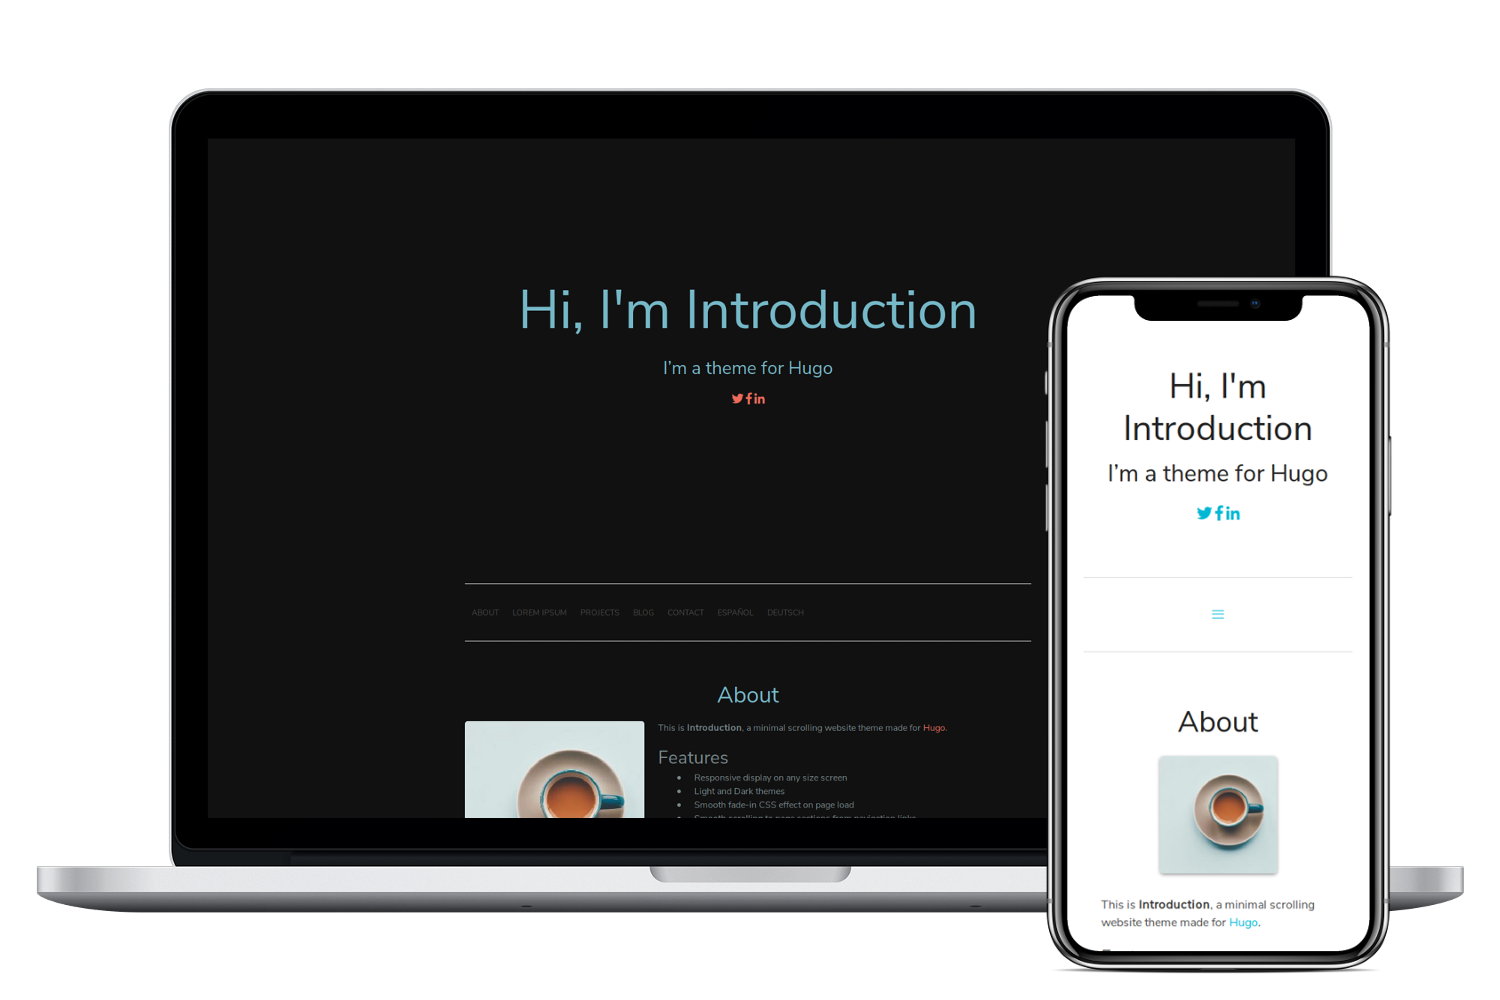
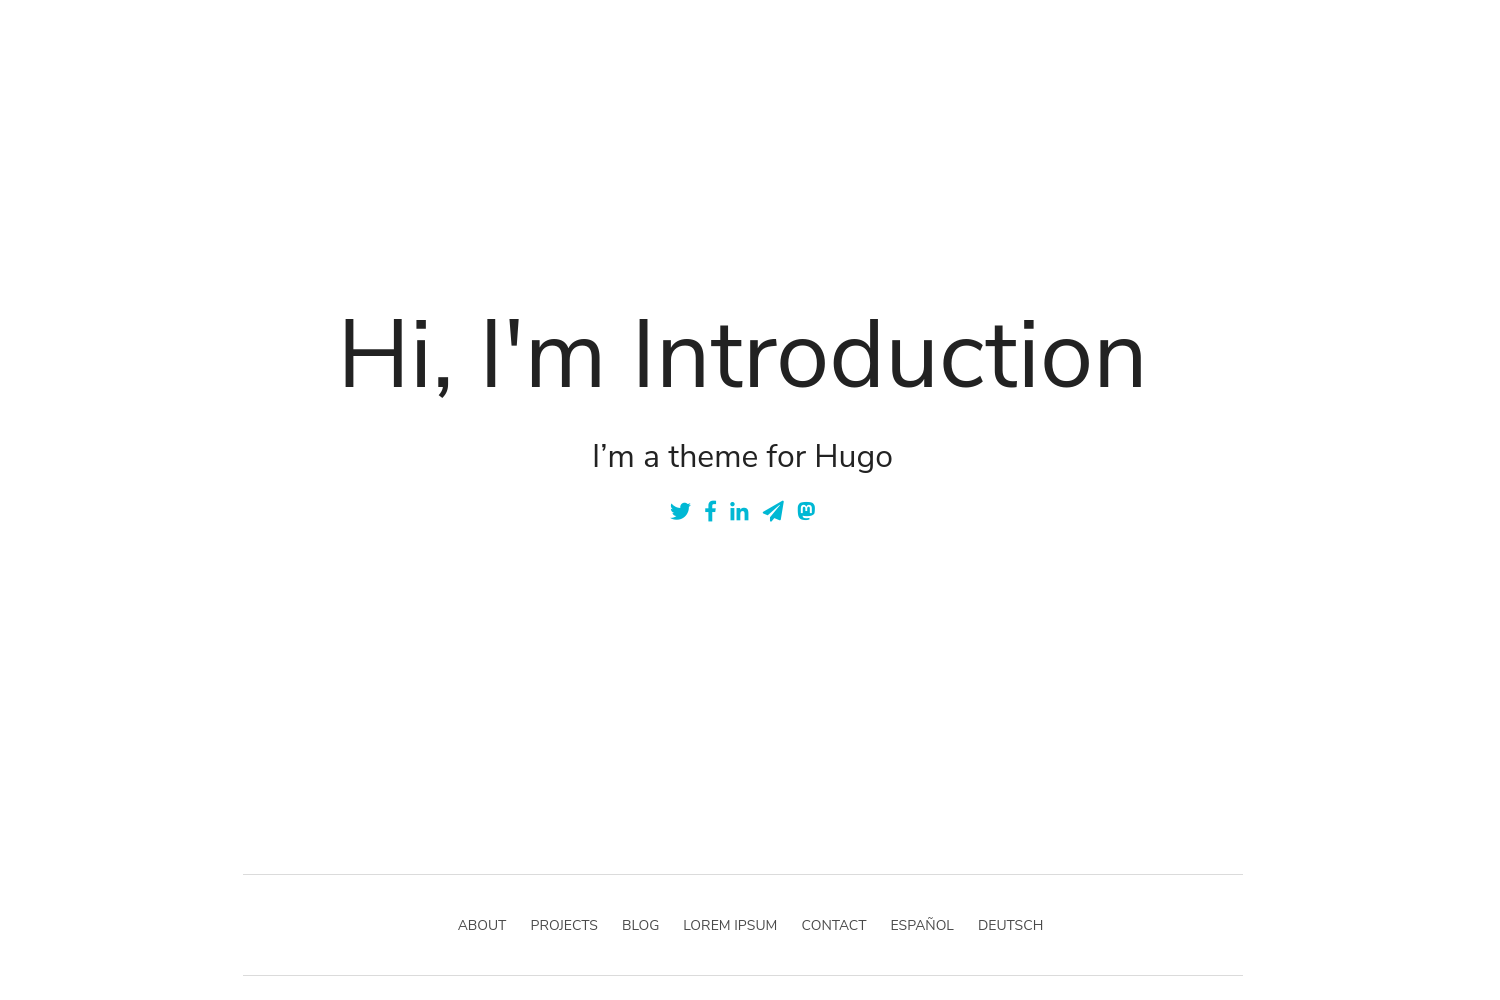
Update introduction theme

diff --git a/themes/introduction/layouts/blog/single.html b/themes/introduction/layouts/blog/single.html
@@ -1,61 +1,61 @@
 {{ define "title" }}
 {{ with .Site.GetPage "/blog" }}
-    <h1 class="bold-title is-1">{{ .Title }}</h1>
+<h1 class="bold-title is-1">{{ .Title | markdownify }}</h1>
 {{ end }}
 {{ end }}
 
 {{ define "main" }}
-    <div class="container">
-        <h2 class="title is-1 top-pad strong-post-title">
-            <a href="{{ .Permalink }}">{{ .Title }}</a>
-        </h2>
-        <div class="post-data">
-            {{ if .Params.date }}{{ .Date.Format (.Site.Params.dateFormat | default "Jan 02, 2006") }} |{{ end }}
-            {{ i18n "blog_readingTime" .ReadingTime }}
-        </div>
-        {{ if or .Site.Params.share.twitter .Site.Params.share.facebook .Site.Params.share.pinterest .Site.Params.share.googlePlus }}
-        <div class="blog-share">
-            {{ i18n "blog_shareThis" . }}:
-            {{ if .Site.Params.share.twitter }}
-            <a class="twitter-share-button" href="https://twitter.com/intent/tweet?text={{ .Title }}%20{{ .Permalink }}" onclick="window.open(this.href, 'twitter-share', 'width=550,height=235');return false;">
-                <i class="fab fa-twitter"></i>
-                <span class="hidden">Twitter</span>
-            </a>
-            {{ end }}
-            {{ if .Site.Params.share.facebook }}
-            <a class="icon-facebook" href="https://www.facebook.com/sharer/sharer.php?u={{ .Permalink }}"  onclick="window.open(this.href, 'facebook-share','width=580,height=296');return false;">
-                <i class="fab fa-facebook-f"></i>
-                <span class="hidden">Facebook</span>
-            </a>
-            {{ end }}
-            {{ if .Site.Params.share.pinterest }}
-            <a class="icon-pinterest" href="http://pinterest.com/pin/create/button/?url={{ .Permalink }}{{ if .Params.pinterestMedia }}&amp;media={{ .Site.BaseURL }}{{ .Params.pinterestMedia }}{{ end }}&amp;description={{ .Title | safeHTML}}" onclick="window.open(this.href, 'pinterest-share','width=580,height=296');return false;">
-                <i class="fab fa-pinterest-p"></i>
-                <span class="hidden">Pinterest</span>
-            </a>
-            {{ end }}
-            {{ if .Site.Params.share.googlePlus }}
-            <a class="icon-google-plus" href="https://plus.google.com/share?url={{ .Permalink }}" onclick="window.open(this.href, 'google-plus-share', 'width=490,height=530');return false;">
-                <i class="fab fa-google-plus-g"></i>
-                <span class="hidden">Google+</span>
-            </a>
-            {{ end }}
-        </div>
+<div class="container">
+    <h2 class="title is-1 top-pad strong-post-title">
+        <a href="{{ .Permalink }}">{{ .Title | markdownify }}</a>
+    </h2>
+    <div class="post-data">
+        {{ if .Params.date }}{{ .Date.Format (.Site.Params.dateFormat | default "Jan 02, 2006") }} |{{ end }}
+        {{ i18n "blog_readingTime" .ReadingTime }}
+    </div>
+    {{ if or .Site.Params.share.twitter .Site.Params.share.facebook .Site.Params.share.pinterest .Site.Params.share.googlePlus }}
+    <div class="blog-share">
+        {{ i18n "blog_shareThis" . }}:
+        {{ if .Site.Params.share.twitter }}
+        <a class="twitter-share-button" href="https://twitter.com/intent/tweet?text={{ .Title | markdownify }}%20{{ .Permalink }}" onclick="window.open(this.href, 'twitter-share', 'width=550,height=235');return false;">
+            <i class="fab fa-twitter"></i>
+            <span class="hidden">Twitter</span>
+        </a>
         {{ end }}
-        {{ if .Params.tags }}
-        {{ $len := (len .Params.tags) }}
-        <p>
-            Tag{{ if gt $len 1 }}s{{ end }}:
-            {{ range $index, $tag := .Params.tags }}
-            <a href="{{ "tags/" | relLangURL }}{{ . | urlize }}">{{ . }}</a>{{ if ne (add $index 1) $len }},{{ end }}
-            {{ end }}
-        </p>
+        {{ if .Site.Params.share.facebook }}
+        <a class="icon-facebook" href="https://www.facebook.com/sharer/sharer.php?u={{ .Permalink }}" onclick="window.open(this.href, 'facebook-share','width=580,height=296');return false;">
+            <i class="fab fa-facebook-f"></i>
+            <span class="hidden">Facebook</span>
+        </a>
+        {{ end }}
+        {{ if .Site.Params.share.pinterest }}
+        <a class="icon-pinterest" href="http://pinterest.com/pin/create/button/?url={{ .Permalink }}{{ if .Params.pinterestMedia }}&amp;media={{ .Site.BaseURL }}{{ .Params.pinterestMedia }}{{ end }}&amp;description={{ .Title | safeHTML}}" onclick="window.open(this.href, 'pinterest-share','width=580,height=296');return false;">
+            <i class="fab fa-pinterest-p"></i>
+            <span class="hidden">Pinterest</span>
+        </a>
+        {{ end }}
+        {{ if .Site.Params.share.googlePlus }}
+        <a class="icon-google-plus" href="https://plus.google.com/share?url={{ .Permalink }}" onclick="window.open(this.href, 'google-plus-share', 'width=490,height=530');return false;">
+            <i class="fab fa-google-plus-g"></i>
+            <span class="hidden">Google+</span>
+        </a>
         {{ end }}
     </div>
-    <!-- Begin blog post content -->
-    <div class="container markdown top-pad">
-        {{ .Content }}
-    </div>
-    <!-- End blog post content -->
-    {{ partial "comments.html" . }}
+    {{ end }}
+    {{ if .Params.tags }}
+    {{ $len := (len .Params.tags) }}
+    <p>
+        Tag{{ if gt $len 1 }}s{{ end }}:
+        {{ range $index, $tag := .Params.tags }}
+        <a href="{{ "tags/" | relLangURL }}{{ . | urlize }}">{{ . }}</a>{{ if ne (add $index 1) $len }},{{ end }}
+        {{ end }}
+    </p>
+    {{ end }}
+</div>
+<!-- Begin blog post content -->
+<div class="container markdown top-pad">
+    {{ .Content }}
+</div>
+<!-- End blog post content -->
+{{ partial "comments.html" . }}
 {{ end }}

diff --git a/themes/introduction/layouts/partials/nav.html b/themes/introduction/layouts/partials/nav.html
@@ -56,7 +56,7 @@
             {{ if eq (os.Stat .File.Dir).Name "projects" }}
                 <!-- Now for some cool projects -->
                 {{ if $isHome }}
-                <a class="navbar-item" href="{{ printf "#%s" ( .Title | urlize) | relLangURL }}">{{ .Title }}</a>
+                <a class="navbar-item" href="{{ printf "#%s" ( .Title | urlize) | relLangURL }}">{{ .Title | markdownify }}</a>
                 {{ else }}
                 {{ $pageIsInProjects := eq $.Page.Section "project"}}
                 {{ if not (and $pageIsInProjects (eq $.Page.Kind "section")) }}
@@ -72,7 +72,7 @@
             {{ else if eq (os.Stat .File.Dir).Name "blog" }}
                 <!-- Let`s show some blog posts -->
                 {{ if $isHome }}
-                <a class="navbar-item" href="{{ printf "#%s" ( .Title | urlize) | relLangURL }}">{{ .Title }}</a>
+                <a class="navbar-item" href="{{ printf "#%s" ( .Title | urlize) | relLangURL }}">{{ .Title | markdownify }}</a>
                 {{ else }}
                 {{ $pageIsInBlog := eq $.Page.Section "blog"}}
                 {{ if not (and $pageIsInBlog (eq $.Page.Kind "section")) }}
@@ -86,7 +86,7 @@
                 {{ end }}
                 {{ end }}
             {{ else }}
-            <a class="navbar-item" href="{{ if $isHome }}#{{ .File.TranslationBaseName }}{{ else }}{{ printf "#%s" (.File.TranslationBaseName | urlize) | relLangURL }}{{ end }}">{{ .Title }}</a>
+            <a class="navbar-item" href="{{ if $isHome }}#{{ .File.TranslationBaseName }}{{ else }}{{ printf "#%s" (.File.TranslationBaseName | urlize) | relLangURL }}{{ end }}">{{ .Title | markdownify }}</a>
             {{ end }}
             {{ end }}
             {{ end }}
@@ -94,7 +94,7 @@
 
             {{ with .Site.GetPage "/home" }}
             {{ with .Resources.GetMatch "contact.md" }}
-            <a class="navbar-item" href="{{ if $isHome }}#{{ .File.TranslationBaseName }}{{ else }}{{ printf "#%s" (.File.TranslationBaseName | urlize) | relLangURL }}{{ end }}">{{ .Title }}</a>
+            <a class="navbar-item" href="{{ if $isHome }}#{{ .File.TranslationBaseName }}{{ else }}{{ printf "#%s" (.File.TranslationBaseName | urlize) | relLangURL }}{{ end }}">{{ .Title | markdownify }}</a>
             {{ end }}
             {{ end }}
 

diff --git a/themes/introduction/layouts/index.html b/themes/introduction/layouts/index.html
@@ -20,7 +20,7 @@
                 <div class="container has-text-centered">
                     <!-- Title and tagline -->
                     <h1 class="bold-title {{ if or (.Site.Params.fadeIn | default true) .Site.Params.fadeInIndex }}fade-in one{{ end }}">
-                        {{ .Title }}
+                        {{ .Title | markdownify }}
                     </h1>
                     <div class="subtitle is-3 {{ if or (.Site.Params.fadeIn | default true) .Site.Params.fadeInIndex }}fade-in two{{ end }}">
                         {{ .Content }}
@@ -67,7 +67,7 @@
         <!-- Range through all sections in /home execept contact.md -->
         <div class="section" id="{{ .File.TranslationBaseName }}">
             <div class="container">
-                <h2 class="title is-2 has-text-centered">{{ .Title }}</h2>
+                <h2 class="title is-2 has-text-centered">{{ .Title | markdownify }}</h2>
                 {{ if .Params.Image }}
                 <div class="columns">
                     <div class="column is-one-third has-text-centered">
@@ -101,7 +101,7 @@
         {{ with .Resources.GetMatch "contact.md" }}
         <div class="section" id="{{ .File.TranslationBaseName }}">
             <div class="container has-text-centered">
-                <h2 class="title is-2">{{ .Title }}</h2>
+                <h2 class="title is-2">{{ .Title | markdownify }}</h2>
                 <div class="markdown">
                     {{ .Content }}
                 </div>

diff --git a/themes/introduction/layouts/_default/taxonomy.html b/themes/introduction/layouts/_default/taxonomy.html
@@ -1,5 +1,5 @@
 {{ define "title" }}
-    <h1 class="bold-title is-1">{{ .Data.Singular | humanize }}: {{ lower .Title }}</h1>
+    <h1 class="bold-title is-1">{{ .Data.Singular | humanize }}: {{ lower .Title | markdownify }}</h1>
 {{ end }}
 
 {{ define "main" }}
@@ -8,11 +8,11 @@
             {{ range .Pages.ByPublishDate.Reverse }}
             {{ if .Date }}
             <li>
-                <a href="{{ .Permalink }}">{{ .Date.Format (.Site.Params.dateFormat | default "Jan 02, 2006") }} | {{ .Title }}</a>
+                <a href="{{ .Permalink }}">{{ .Date.Format (.Site.Params.dateFormat | default "Jan 02, 2006") }} | {{ .Title | markdownify }}</a>
             </li>
             {{ else }}
             <li>
-                <a href="{{ .Permalink }}">{{ .Title }}</a>
+                <a href="{{ .Permalink }}">{{ .Title | markdownify }}</a>
             </li>
             {{ end }}
             {{ end }}

diff --git a/themes/introduction/assets/sass/style.sass b/themes/introduction/assets/sass/style.sass
@@ -2,6 +2,25 @@
 $fa-font-path: '{{ "/fonts/fontawesome-free/webfonts" }}'
 $nunito-font-path: '{{ "/fonts/NunitoSans" }}'
 
+{{ if eq $themeStyle "auto" }}
+@import "fonts"
+@import "light-variables"
+@import "base-variables"
+@import "bulma-import"
+@import "fontawesome-import"
+@import "base"
+@import "light-style"
+
+@media (prefers-color-scheme: dark)
+    @import "fonts"
+    @import "dark-variables"
+    @import "base-variables"
+    @import "bulma-import"
+    @import "fontawesome-import"
+    @import "base"
+    @import "dark-style"
+
+{{ else }}
 @import "fonts"
 @import "{{ $themeStyle }}-variables"
 @import "base-variables"
@@ -9,3 +28,4 @@ $nunito-font-path: '{{ "/fonts/NunitoSans" }}'
 @import "fontawesome-import"
 @import "base"
 @import "{{ $themeStyle }}-style"
+{{ end }}

diff --git a/themes/introduction/layouts/partials/home/projects.html b/themes/introduction/layouts/partials/home/projects.html
@@ -3,7 +3,7 @@
     <!-- Begin Projects container -->
     <div class="container">
         <h2 class="title is-2 has-text-centered">
-            {{ .Title }}
+            {{ .Title | markdownify }}
         </h2>
         <div class="section">
             <div class="columns is-multiline">
@@ -32,7 +32,7 @@
                         </div>
                         <div class="card-content has-text-centered top-pad">
                             <a {{ if .Params.external_link }} href="{{ .Params.external_link }}" {{ end }}>
-                                {{ .Title }}
+                                {{ .Title | markdownify }}
                             </a>
                         </div>
                     </div>

diff --git a/themes/introduction/layouts/partials/head/openGraph.html b/themes/introduction/layouts/partials/head/openGraph.html
@@ -1,8 +1,8 @@
-<meta property="og:title" content="{{ .Title }}{{ if ne .Title .Site.Title }} - {{ .Site.Title }}{{ end }}" />
+<meta property="og:title" content="{{ .Title | markdownify }}{{ if ne .Title .Site.Title }} - {{ .Site.Title | markdownify }}{{ end }}" />
 <meta property="og:type" content="website" />
 <meta property="og:description" content="{{ if .Description }}{{ .Description }}{{ else }}{{ .Site.Params.description }}{{ end }}"/>
 <meta property="og:url" content="{{ .Permalink }}"/>
-<meta property="og:site_name" content="{{ .Site.Title }}"/>
+<meta property="og:site_name" content="{{ .Site.Title | markdownify }}"/>
 
 {{ with .Resources.ByType "image" }}
 {{ range first 5 (sort . "Params.weight") }}

diff --git a/themes/introduction/layouts/_default/list.html b/themes/introduction/layouts/_default/list.html
@@ -7,11 +7,11 @@
             {{ range .Pages.ByPublishDate.Reverse }}
             {{ if .Date }}
             <li>
-                <a href="{{ .Permalink }}">{{ .Date.Format (.Site.Params.dateFormat | default "Jan 02, 2006") }} | {{ .Title }}</a>
+                <a href="{{ .Permalink }}">{{ .Date.Format (.Site.Params.dateFormat | default "Jan 02, 2006") }} | {{ .Title | markdownify }}</a>
             </li>
             {{ else }}
             <li>
-                <a href="{{ .Permalink }}">{{ .Title }}</a>
+                <a href="{{ .Permalink }}">{{ .Title | markdownify }}</a>
             </li>
             {{ end }}
             {{ end }}

diff --git a/themes/introduction/layouts/partials/home/blog.html b/themes/introduction/layouts/partials/home/blog.html
@@ -6,7 +6,7 @@
         <h2 class="title is-2 has-text-centered">{{ i18n "index_blog_latestPosts" . }}</h2>
             {{ range first 1 .Pages.ByPublishDate.Reverse }}
             <div class="summary">{{ if .Params.date }}{{ .Date.Format (.Site.Params.dateFormat | default "Jan 02, 2006") }}{{ end }}
-                <h3 class="title is-3 latest-post-title"><a href="{{ .Permalink }}">{{ .Title }}</a></h3>
+                <h3 class="title is-3 latest-post-title"><a href="{{ .Permalink }}">{{ .Title | markdownify }}</a></h3>
                     <div class="markdown">
                     {{ .Summary }}
                     {{ if .Truncated }}

diff --git a/themes/introduction/assets/sass/_base.sass b/themes/introduction/assets/sass/_base.sass
@@ -205,12 +205,21 @@ pre
     ul
         margin-bottom: 1.25rem
         margin-left: 1.5em
-        list-style: none
+        list-style: disc
+    ul ul
+        margin-bottom: 0
     li
-        list-style-type: disc
         margin-left: 1.5em
         list-style-position: outside
         padding-left: 1em
+    ol
+        margin-bottom: 1.25rem
+        margin-left: 1.5em
+    ol ol
+        list-style-type: lower-alpha
+        margin-bottom: 0
+    ol ol ol
+        list-style-type: lower-roman
     em
         font-style: italic
     strong

diff --git a/themes/introduction/layouts/partials/head/metadata.html b/themes/introduction/layouts/partials/head/metadata.html
@@ -6,7 +6,7 @@
 <meta name="referrer" content="no-referrer">
 {{ if .Site.Params.description }}<meta name="description" content="{{ .Site.Params.description }}">{{ end }}
 <title>
-{{ .Title }}{{ if ne .Title .Site.Title }} - {{ .Site.Title }}{{ end }}
+{{ .Title | markdownify }}{{ if ne .Title .Site.Title }} - {{ .Site.Title | markdownify }}{{ end }}
 </title>
 <!-- RSS -->
 {{ with .OutputFormats.Get "RSS" }}<link href="{{ .RelPermalink }}" rel="alternate" type="application/rss+xml" title="{{ $.Site.Title }}" />{{ end }}

diff --git a/themes/introduction/layouts/partials/blog/li.html b/themes/introduction/layouts/partials/blog/li.html
@@ -1,5 +1,5 @@
 {{ range .Pages.ByPublishDate.Reverse }}
     <li class="post-item">
-        <span><a href="{{ .Permalink }}">{{ .Title }}</a></span>{{ if .Params.date }} - <span>{{ .Date.Format (.Site.Params.dateFormat | default "Jan 02, 2006") }}</span>{{ end }}
+        <span><a href="{{ .Permalink }}">{{ .Title | markdownify }}</a></span>{{ if .Params.date }} - <span>{{ .Date.Format (.Site.Params.dateFormat | default "Jan 02, 2006") }}</span>{{ end }}
     </li>
 {{ end }}
